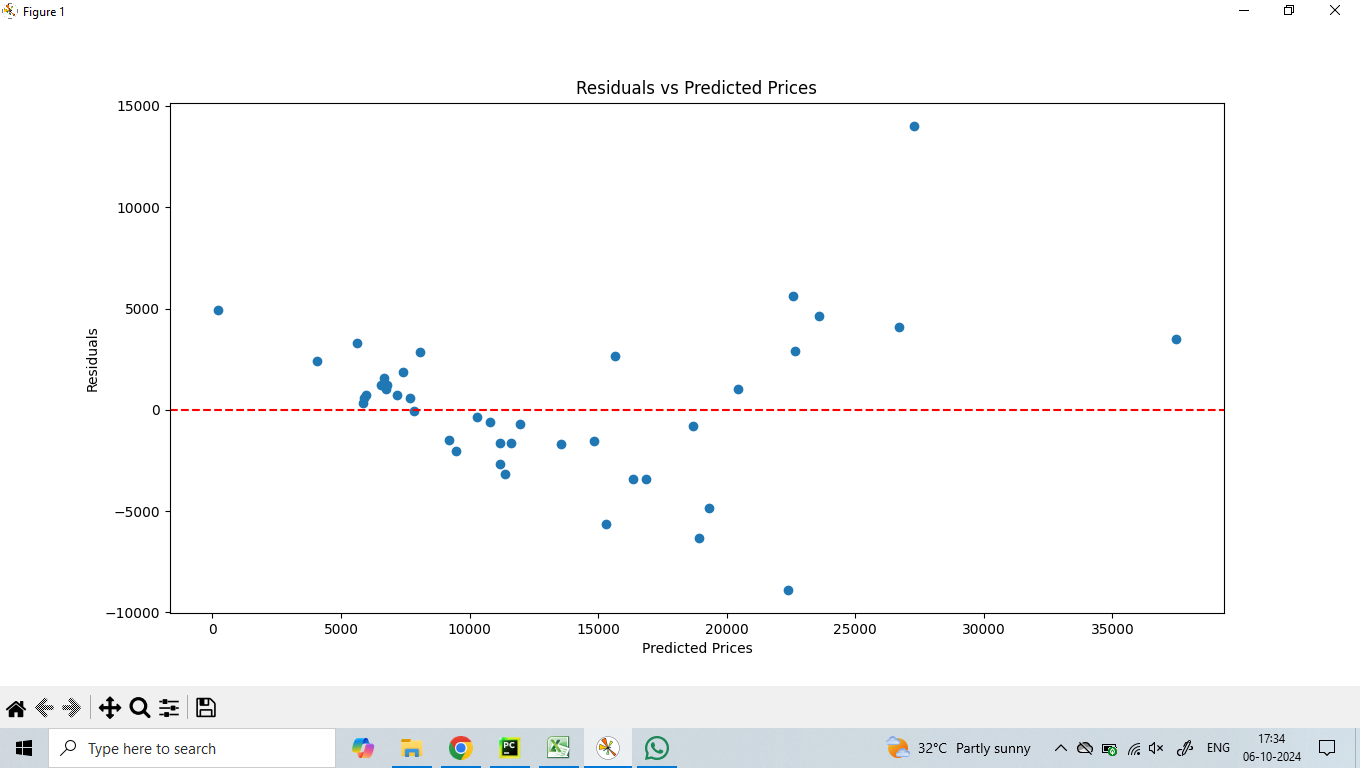
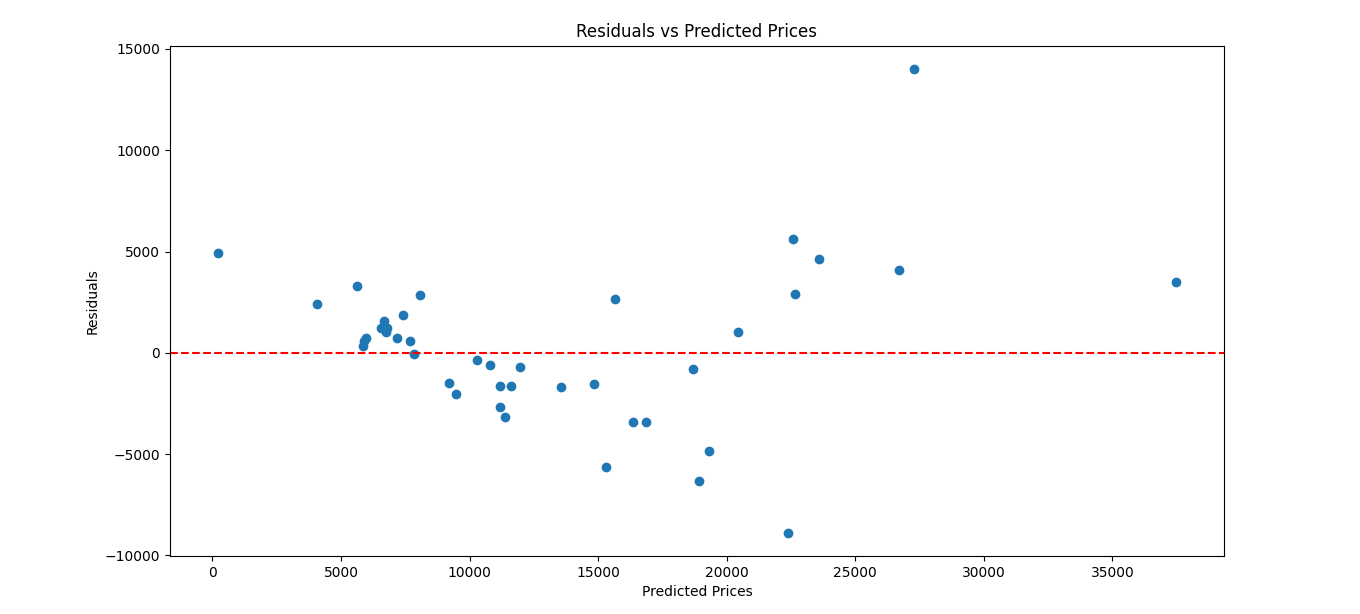
Done

diff --git a/README.md b/README.md
@@ -122,7 +122,7 @@ plt.show()
 
 ```
 ## Output:
-![alt text](<Screenshot (868).png>)
+![alt text](<Screenshot (878).png>)
 ![alt text](image.png)
 
 ## Result:
